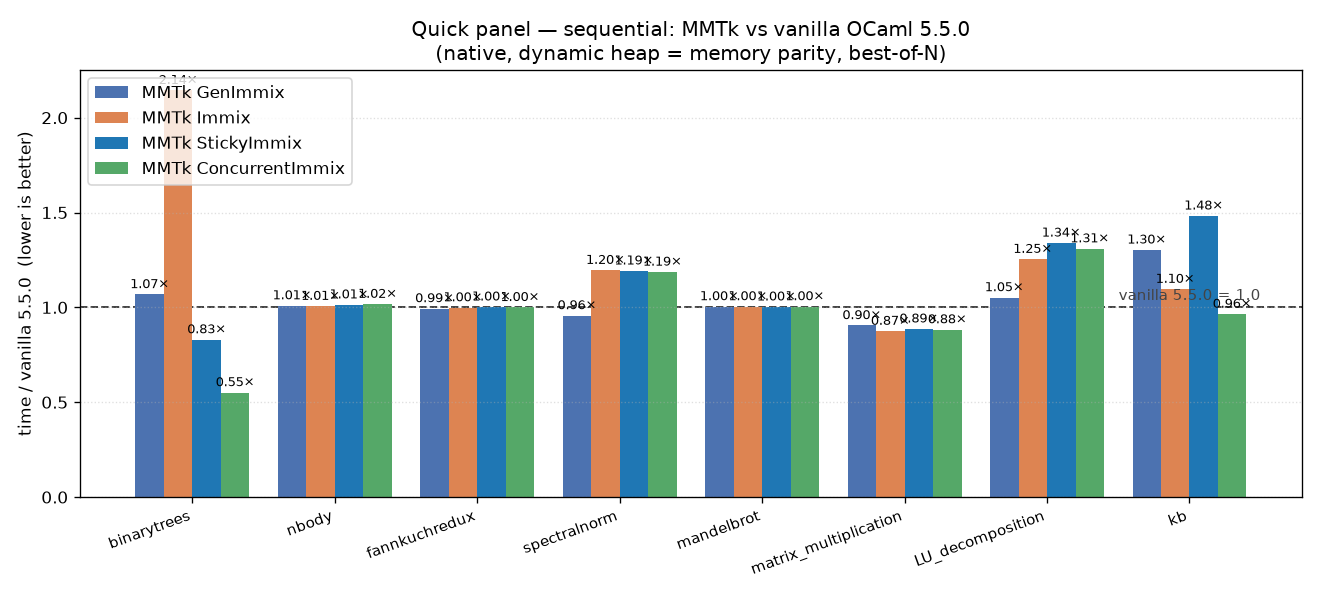
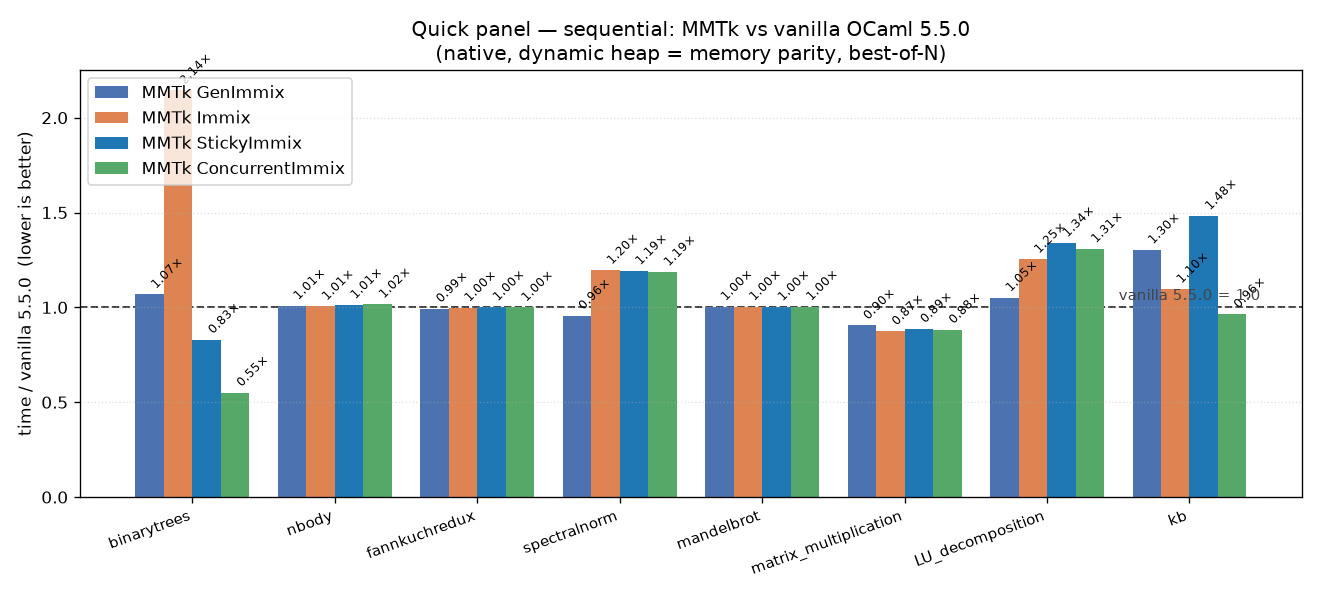
quick: slant seq bar labels 45deg (avoid overlap); regen graphs

diff --git a/quick/quickbench.py b/quick/quickbench.py
@@ -425,7 +425,7 @@ def plot_all(records, outdir):
                     if np.isfinite(h):
                         ax.annotate(f"{h:.2f}×", (r.get_x()+r.get_width()/2, h),
                                     textcoords="offset points", xytext=(0, 2),
-                                    ha="center", va="bottom", fontsize=7.5)
+                                    ha="left", va="bottom", fontsize=7, rotation=45)
             ax.axhline(1.0, color="#444", lw=1.2, ls="--", zorder=0)
             ax.text(len(benches)-0.5, 1.02, "vanilla 5.5.0 = 1.0", ha="right",
                     va="bottom", fontsize=9, color="#444")
